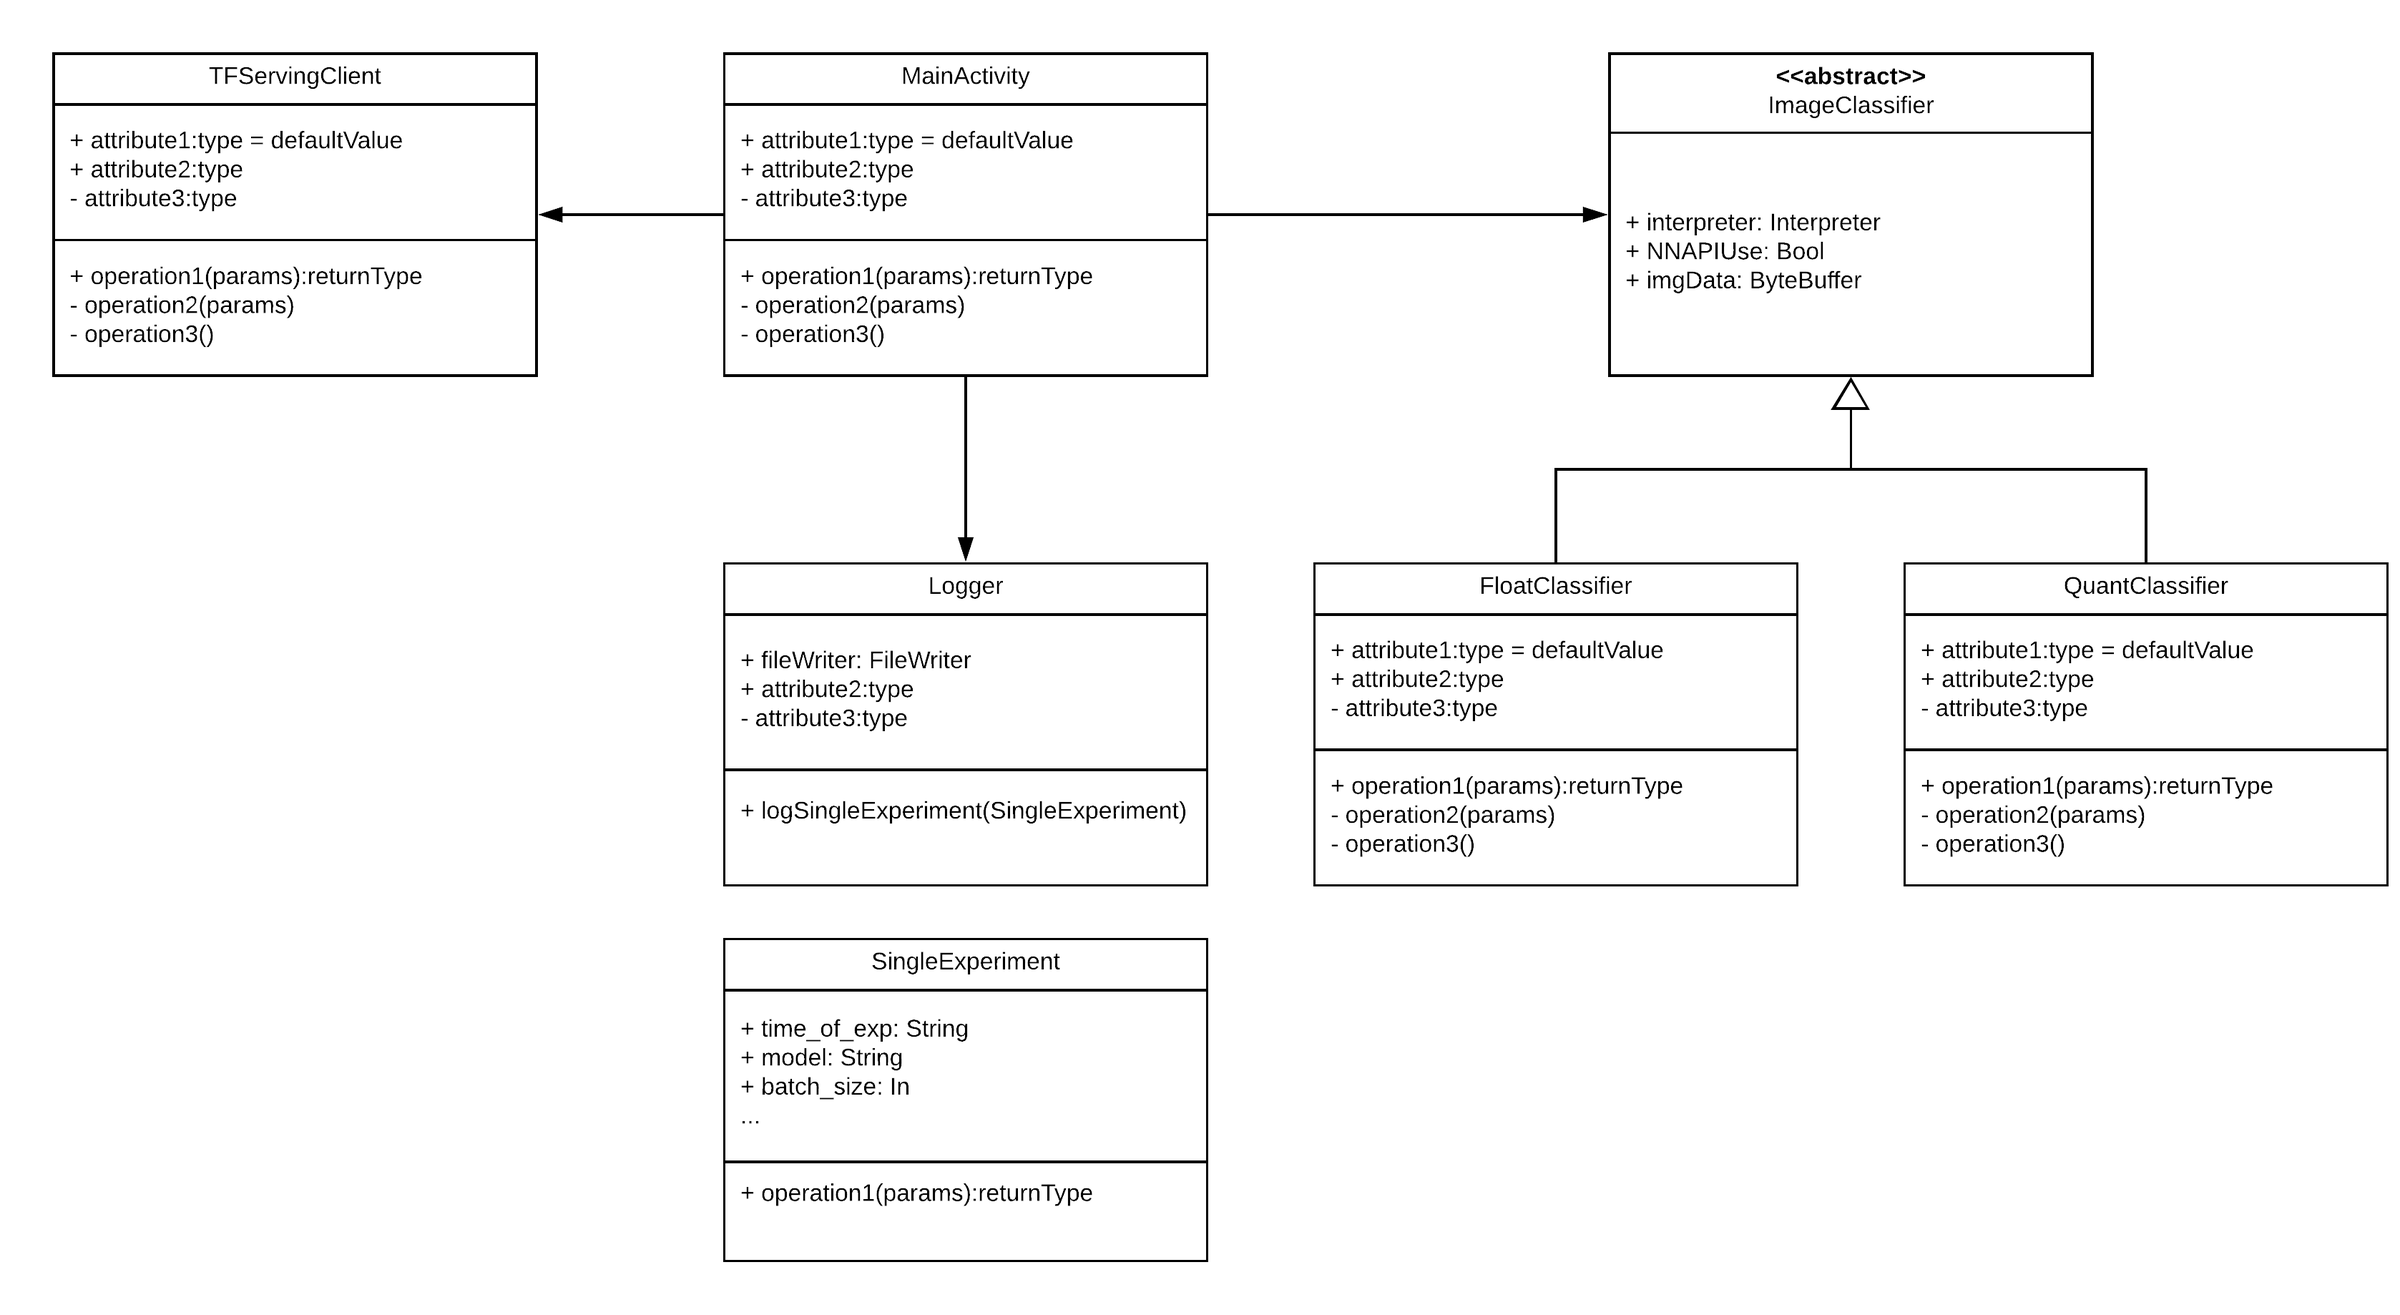
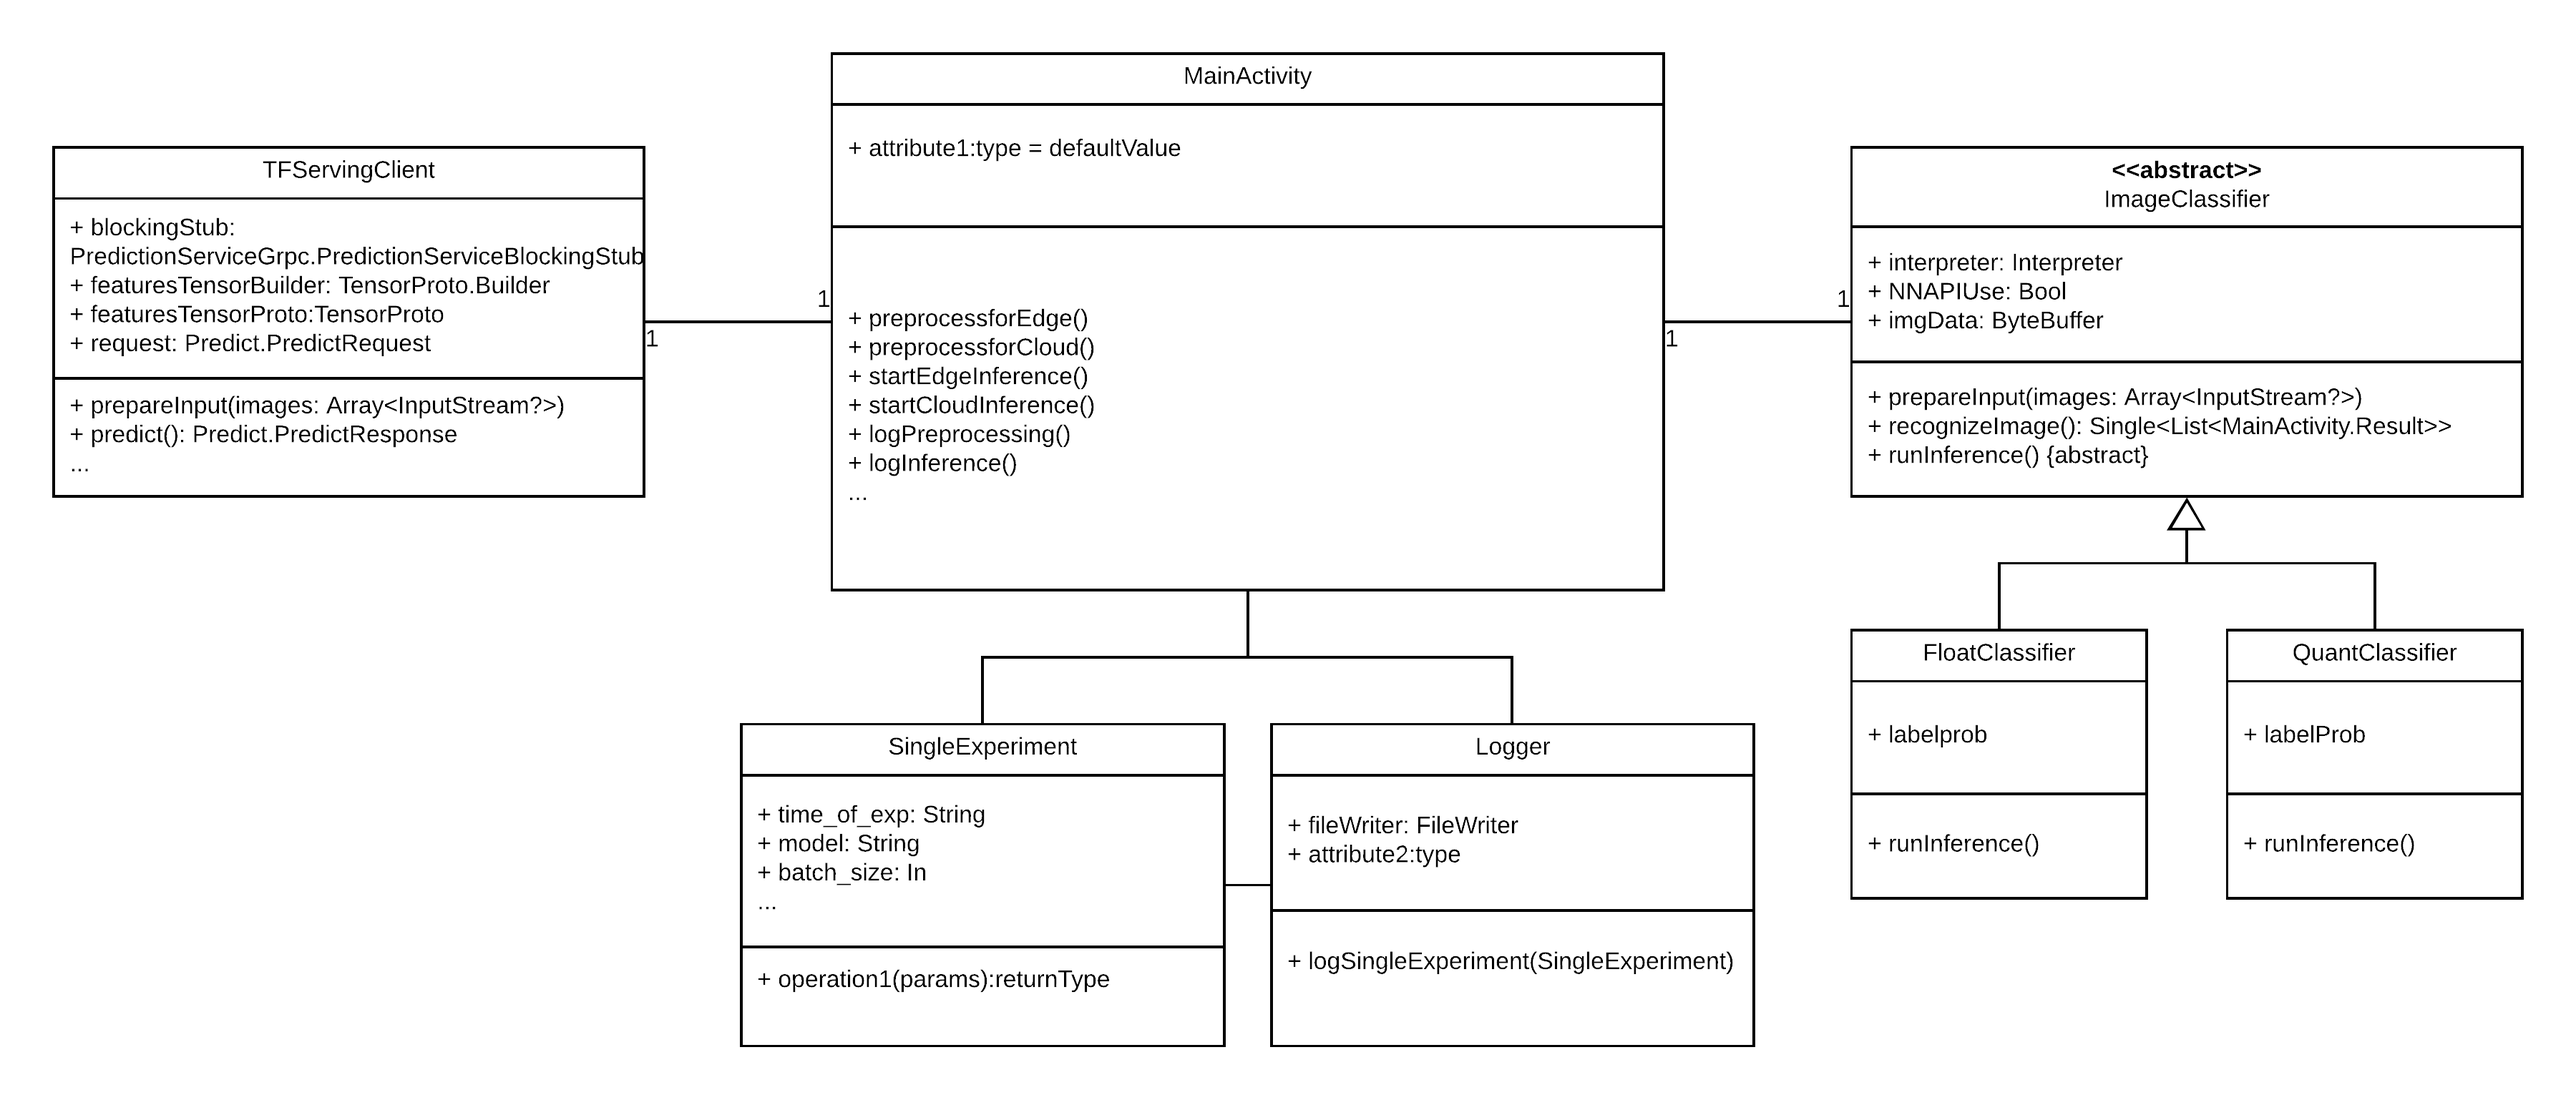
commit 9.1.18

diff --git a/kapitel4.tex b/kapitel4.tex
@@ -82,17 +82,25 @@ In figure \ref{fig:app} the workflow to perform the inference is seen. First, a 
 
 \begin{figure}[H]
 \centering
-\includegraphics[width=0.9\textwidth]{./Bilder/UML.png}
+\includegraphics[width=0.95\textwidth]{./Bilder/UML.png}
 \caption{UML class diagram of the benchmark Application}
 \label{fig:UML}
 \end{figure}
+Figure \ref{fig:UML} depicts an UML class diagram of the application featuring the most important classes, functions and variables. 
+The main class is called MainActivity and implements all of the graphical aspects. 
+The MainActivity handles requests for both cloud and edge inference by delegating the requests to instances of the classes TFServingClient and ImageClassifier, respectively. Both of these classes also take care of the preprocessing steps.
+The abstract class ImageClassifier has two subclasses FloatClassifier and QuantClassifier. The first class runs the inference for floating point models and the second for quantized models.
+This seperation is needed since these different model types require different input and output types.
+
+The MainActivity writes the collected measurements and the parameter configurations of a experiment to a instance of SingleExperiment. After the experiment is completed MainActivity tells a Logger instance to save the contents of the SingleExperiment object. The Logger then saves all collected data to a csv file.
+
 \subsubsection{Preprocessing}
 For the case of image classification, the images need to have the correct size ($224\times224$ for MobilenetV2 and $299\times299$ for InceptionV4) and the rgb values need to be scaled to the interval $[-1,1]$. After preprocessing the image has been transformed into the shape $224\times224\times3$ with all values between $[-1,1]$, where the the first two dimensions represent the image height and width, while the last dimension represent the number of channels (3 since the images are rgb)
 \begin{figure}[H]
 \centering
 \includegraphics[width=0.55\textwidth]{./Bilder/preprocessing.jpg}
 \caption{Preprocessing steps for image classifcation}
-\label{fig:app}
+\label{fig:prepro}
 \end{figure}
 \paragraph{Edge Preprocessing}
 In the case of edge preprocessing all preprocessing steps are done on the edge device, meaning that the input can be fed directly into the neural afterwards, either on the edge device itself or on a cloud-backend.
@@ -125,6 +133,7 @@ For the case of cloud inference the major parts of the needed preprocessing is e
 \paragraph{Inference Mode}
 The inference can either be performed on the edge or an a cloud-backend.
 
+
 \begin{figure}[H]
 \centering
  \scalebox{.7}{\input{./Bilder/tree.tex}}
@@ -132,9 +141,14 @@ The inference can either be performed on the edge or an a cloud-backend.
 \caption{Excerpt of the performed experiments configurations}
 \label{fig:tree}
 \end{figure}
-\subsection{Measurements}
+Figure \ref{fig:tree} shows a part of our experimentation tree. In theory there would be 240 different parameter configurations, but due to a number of reasons the number of different configurations reduced to 113 in total.
+
+First, the Usage of NNAPI is independent of the image size hence we only perform experiments without NNAPI for a single Image Size. Also the usage of NNAPI leads to a way better performance for edge inference and we want to compare edge and cloud inference so we only carry out experiments without NNAPI for a batch size of one.
+We omit the cloud inference for the quantized Mobilenet because %INSERT REASON.
+Lastly due to reasons of limited capacity/time and lack of support of batch sizes larger than one in TensorFlow Lite for some models.
+\subsection{Performance Metrics}
 \label{chap:insta_measurements}
-We conduct the measurement either directly in the source code or by using Android Studio Profiler (Version 3.3). Since Android Studio cannot collect all metrics the way we wanted, we wanted to used Trepn as a secondary profiling application. But since Trepn does not support our test device, we had to omit these metrics.
+We conduct the measurements either directly in the source code or by using Android Studio Profiler (Version 3.3). Since Android Studio cannot collect all metrics the way we wanted, we wanted to used Trepn as a secondary profiling application. But since Trepn does not support our test device, we had to omit these metrics.
 \subsubsection{Inference Time}
 To measure inference time we need to  distinguish between edge and cloud inference.
 \paragraph{Edge Inference}To measure edge inference we measure the time the TensorFlow Lite interpreter needs to run the inference operation on the loaded model given the input image.
@@ -178,7 +192,7 @@ The little trash can at the bottom of the figure shows that the garbage collecti
 \subsubsection{GPU Usage}
 Neither Android Studio nor Trepn can provide GPU metrics for the OnePlus 6T. Hence no GPU measurements can be conducted.
 \subsubsection{Throughput}
-We differentiate two types of throughputs: the inference throughput and the total throughput, which also includes preprocessing besides inference.
+We differentiate two types of throughput: the inference throughput and the total throughput, which also includes preprocessing besides inference.
 We calculate throughput in operations per second by 
 
 \begin{equation*}
@@ -191,6 +205,8 @@ Throughput_{total}  =\frac{1000}{(time_{inference} + time_{preprocessing}) / bat
 We measure both transmitted and received data by using the Android TrafficStats package (https://developer.android.com/reference/android/net/TrafficStats). We start measuring both transmitted and received bytes when the inference operation is started and stop when the response from the server is returned. 
 \section{Results and Evaluation}
 This section covers the results of the conducted experiments and their evaluation.
+
+First, we take a look into the individual results of edge and cloud inference and afterwards compare them against each other. 
 \subsection{Edge}
 This section covers the results of the edge inference experiments.
 \subsubsection{Preprocessing}

diff --git a/Titel/erklaerung-lmu.tex b/Titel/erklaerung-lmu.tex
@@ -15,7 +15,7 @@
 \vspace*{2cm}
 
 \noindent
-Hiermit versichere ich, dass ich die vorliegende Bachelorarbeit
+Hiermit versichere ich, dass ich die vorliegende Masterarbeit
 selbst\"andig verfasst und keine anderen als die angegebenen Quellen
 und Hilfsmittel verwendet habe.
 
